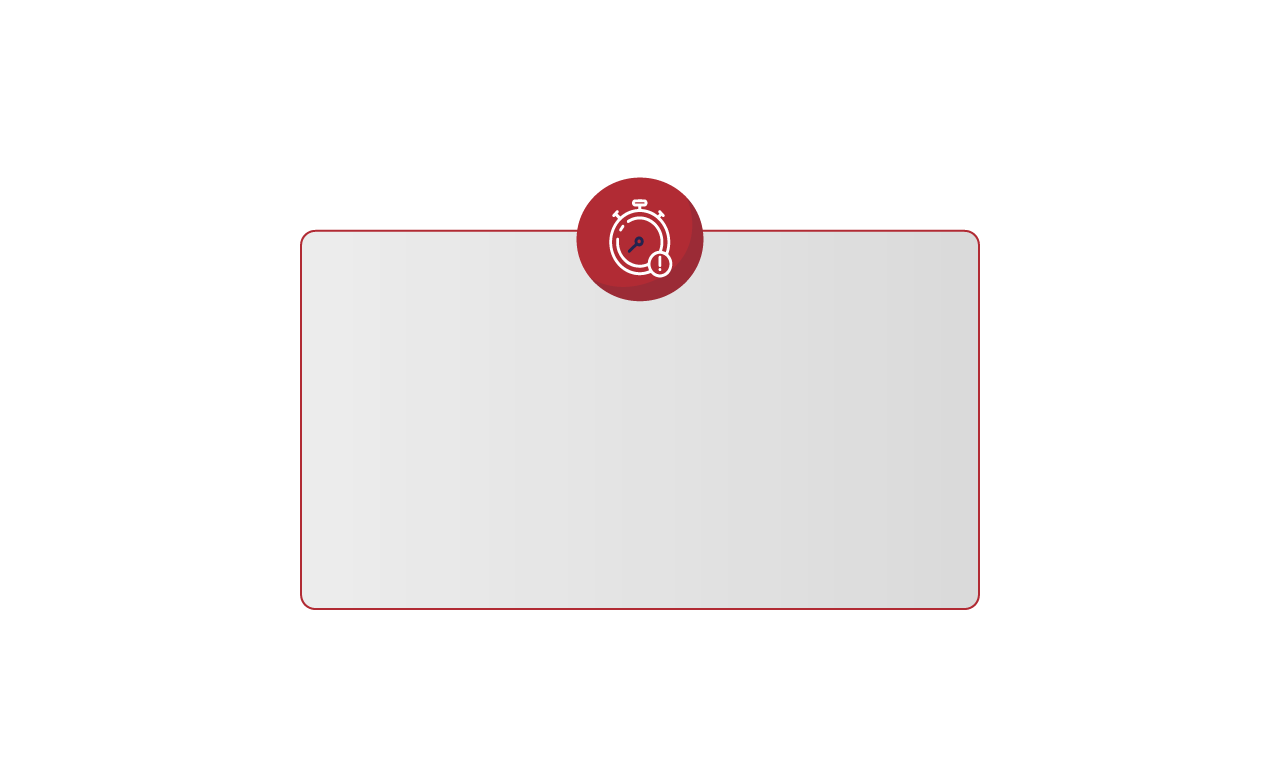
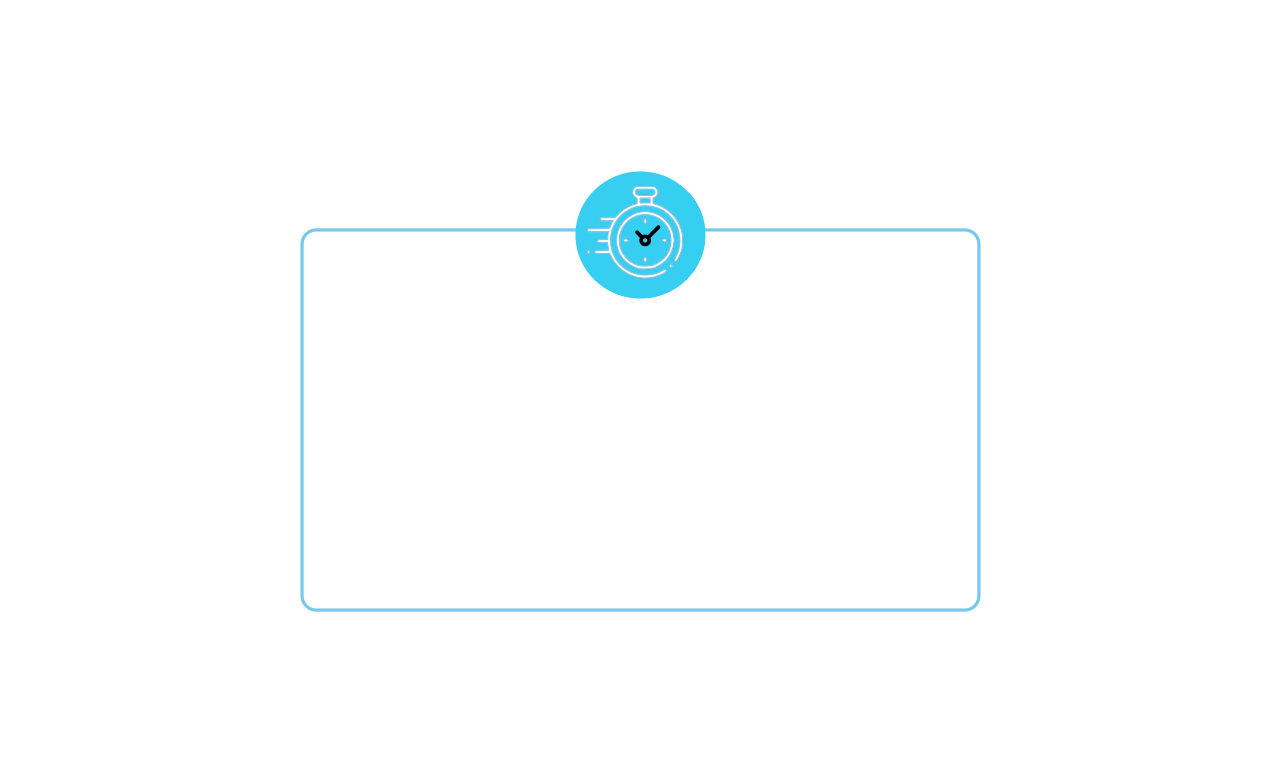
fase1

Changed region(s): [[0.25, 0.2188, 0.7812, 0.8125]]

diff --git a/js/canvas.js b/js/canvas.js
@@ -109,20 +109,20 @@ function buildGameCanvas(){
 	//game
 	gameStatusTxt = new createjs.Text();
 	gameStatusTxt.font = "50px Brandon_blk_it";
-	gameStatusTxt.color = "#c21f2eff";
+	gameStatusTxt.color = "#ffffffff";
 	gameStatusTxt.textAlign = "center";
 	gameStatusTxt.textBaseline='alphabetic';
 
 	gameScoreTxt = new createjs.Text();
 	gameScoreTxt.font = "25px Brandon_blk_it";
-	gameScoreTxt.color = '#c21f2eff';
+	gameScoreTxt.color = '#ffffffff';
 	gameScoreTxt.textAlign = "center";
 	gameScoreTxt.textBaseline='alphabetic';
 	gameScoreTxt.text = '';
 
 	gameLevelTxt = new createjs.Text();
 	gameLevelTxt.font = "25px Brandon_blk_it";
-	gameLevelTxt.color = '#c21f2eff';
+	gameLevelTxt.color = '#ffffffff';
 	gameLevelTxt.textAlign = "center";
 	gameLevelTxt.textBaseline='alphabetic';
 	gameLevelTxt.text = '';
@@ -167,13 +167,13 @@ function buildGameCanvas(){
 
 		$.players["name" + n] = new createjs.Text();
 		$.players["name" + n].font = "25px Brandon_blk_it";
-		$.players["name" + n].color = "#c21f2eff";
+		$.players["name" + n].color = "#ffffffff";
 		$.players["name" + n].textAlign = isEven(n) == true ? "left" : "right";
 		$.players["name" + n].textBaseline='alphabetic';
 
 		$.players["score" + n] = new createjs.Text();
 		$.players["score" + n].font = "25px Brandon_blk_it";
-		$.players["score" + n].color = "#c21f2eff";
+		$.players["score" + n].color = "#ffffffff";
 		$.players["score" + n].textAlign = isEven(n) == true ? "left" : "right";
 		$.players["score" + n].textBaseline='alphabetic';
 
@@ -223,21 +223,21 @@ function buildGameCanvas(){
 	
 	resultShareTxt = new createjs.Text();
 	resultShareTxt.font = "35px Brandon_blk_it";
-	resultShareTxt.color = '#c21f2eff';
+	resultShareTxt.color = '#004a9eff';
 	resultShareTxt.textAlign = "center";
 	resultShareTxt.textBaseline='alphabetic';
 	resultShareTxt.text = textDisplay.share;
 	
 	resultTitleTxt = new createjs.Text();
 	resultTitleTxt.font = "35px Brandon_blk_it";
-	resultTitleTxt.color = '#c21f2eff';
+	resultTitleTxt.color = '#004a9eff';
 	resultTitleTxt.textAlign = "center";
 	resultTitleTxt.textBaseline='alphabetic';
 	resultTitleTxt.text = textDisplay.resultTitle;
 	
 	resultDescTxt = new createjs.Text();
 	resultDescTxt.font = "85px Brandon_blk_it";
-	resultDescTxt.color = '#c21f2eff';
+	resultDescTxt.color = '#004a9eff';
 	resultDescTxt.textAlign = "center";
 	resultDescTxt.textBaseline='alphabetic';
 	resultDescTxt.text = '';
@@ -295,7 +295,7 @@ function buildGameCanvas(){
 	
 	popTitleTxt = new createjs.Text();
 	popTitleTxt.font = "35px Brandon_blk_it";
-	popTitleTxt.color = "#c21f2eff";
+	popTitleTxt.color = "#004a9eff";
 	popTitleTxt.textAlign = "center";
 	popTitleTxt.textBaseline='alphabetic';
 	popTitleTxt.text = textDisplay.exitTitle;
@@ -303,7 +303,7 @@ function buildGameCanvas(){
 	popDescTxt = new createjs.Text();
 	popDescTxt.font = "45px Brandon_regular";
 	popDescTxt.lineHeight = 45;
-	popDescTxt.color = "#1b1950ff";
+	popDescTxt.color = "#004a9eff";
 	popDescTxt.textAlign = "center";
 	popDescTxt.textBaseline='alphabetic';
 	popDescTxt.text = textDisplay.exitMessage;

diff --git a/index.html b/index.html
@@ -6,15 +6,15 @@
     <head>
         <meta charset="utf-8">
         <meta http-equiv="X-UA-Compatible" content="IE=edge">
-        <title>Pedialyte</title>
+        <title>Abbott</title>
         
-        <meta name="Title" content="Pedialyte" />
+        <meta name="Title" content="Abbott" />
         <meta name="description" content="Feed Monster is a HTML5 game where you have to simply score as many points by eating the small dots all around the maze, and you can eat the monsters for points effectively after eating the energizer. Experience endless maze instead of classic mode to challenge yourself for different game play.">
 		<meta name="keywords" content="arcade, pacman, ghost, eating, snack, maze, action, color, multiplayer, traditional, classic">
         
         <!-- for Facebook -->
-        <meta property="og:title" content="Pedialyte"/>
-        <meta property="og:site_name" content="Pedialyte"/>
+        <meta property="og:title" content="Abbott"/>
+        <meta property="og:site_name" content="Abbott"/>
         <meta property="og:image" content="http://demonisblack.com/code/2022/feedmonster/game/share.jpg" />
         <meta property="og:url" content="http://demonisblack.com/code/2022/feedmonster/game/" />
         <meta property="og:description" content="Feed Monster is a HTML5 game where you have to simply score as many points by eating the small dots all around the maze, and you can eat the monsters for points effectively after eating the energizer. Experience endless maze instead of classic mode to challenge yourself for different game play.">

diff --git a/js/game.js b/js/game.js
@@ -11,9 +11,9 @@
 //themes
 var theme_settings = [
 	{
-		strokeColor:"#1b1950ff",
-		biscuitColor:"#ff2221ff",
-		pillColor:"#ff2221ff",
+		strokeColor:"#36cff2ff",
+		biscuitColor:"#fedd02ff",
+		pillColor:"#fedd02ff",
 		gateColor:"#e4e6af",
 		user:["assets/item_theme8_user.png"],
 		ghosts:[
